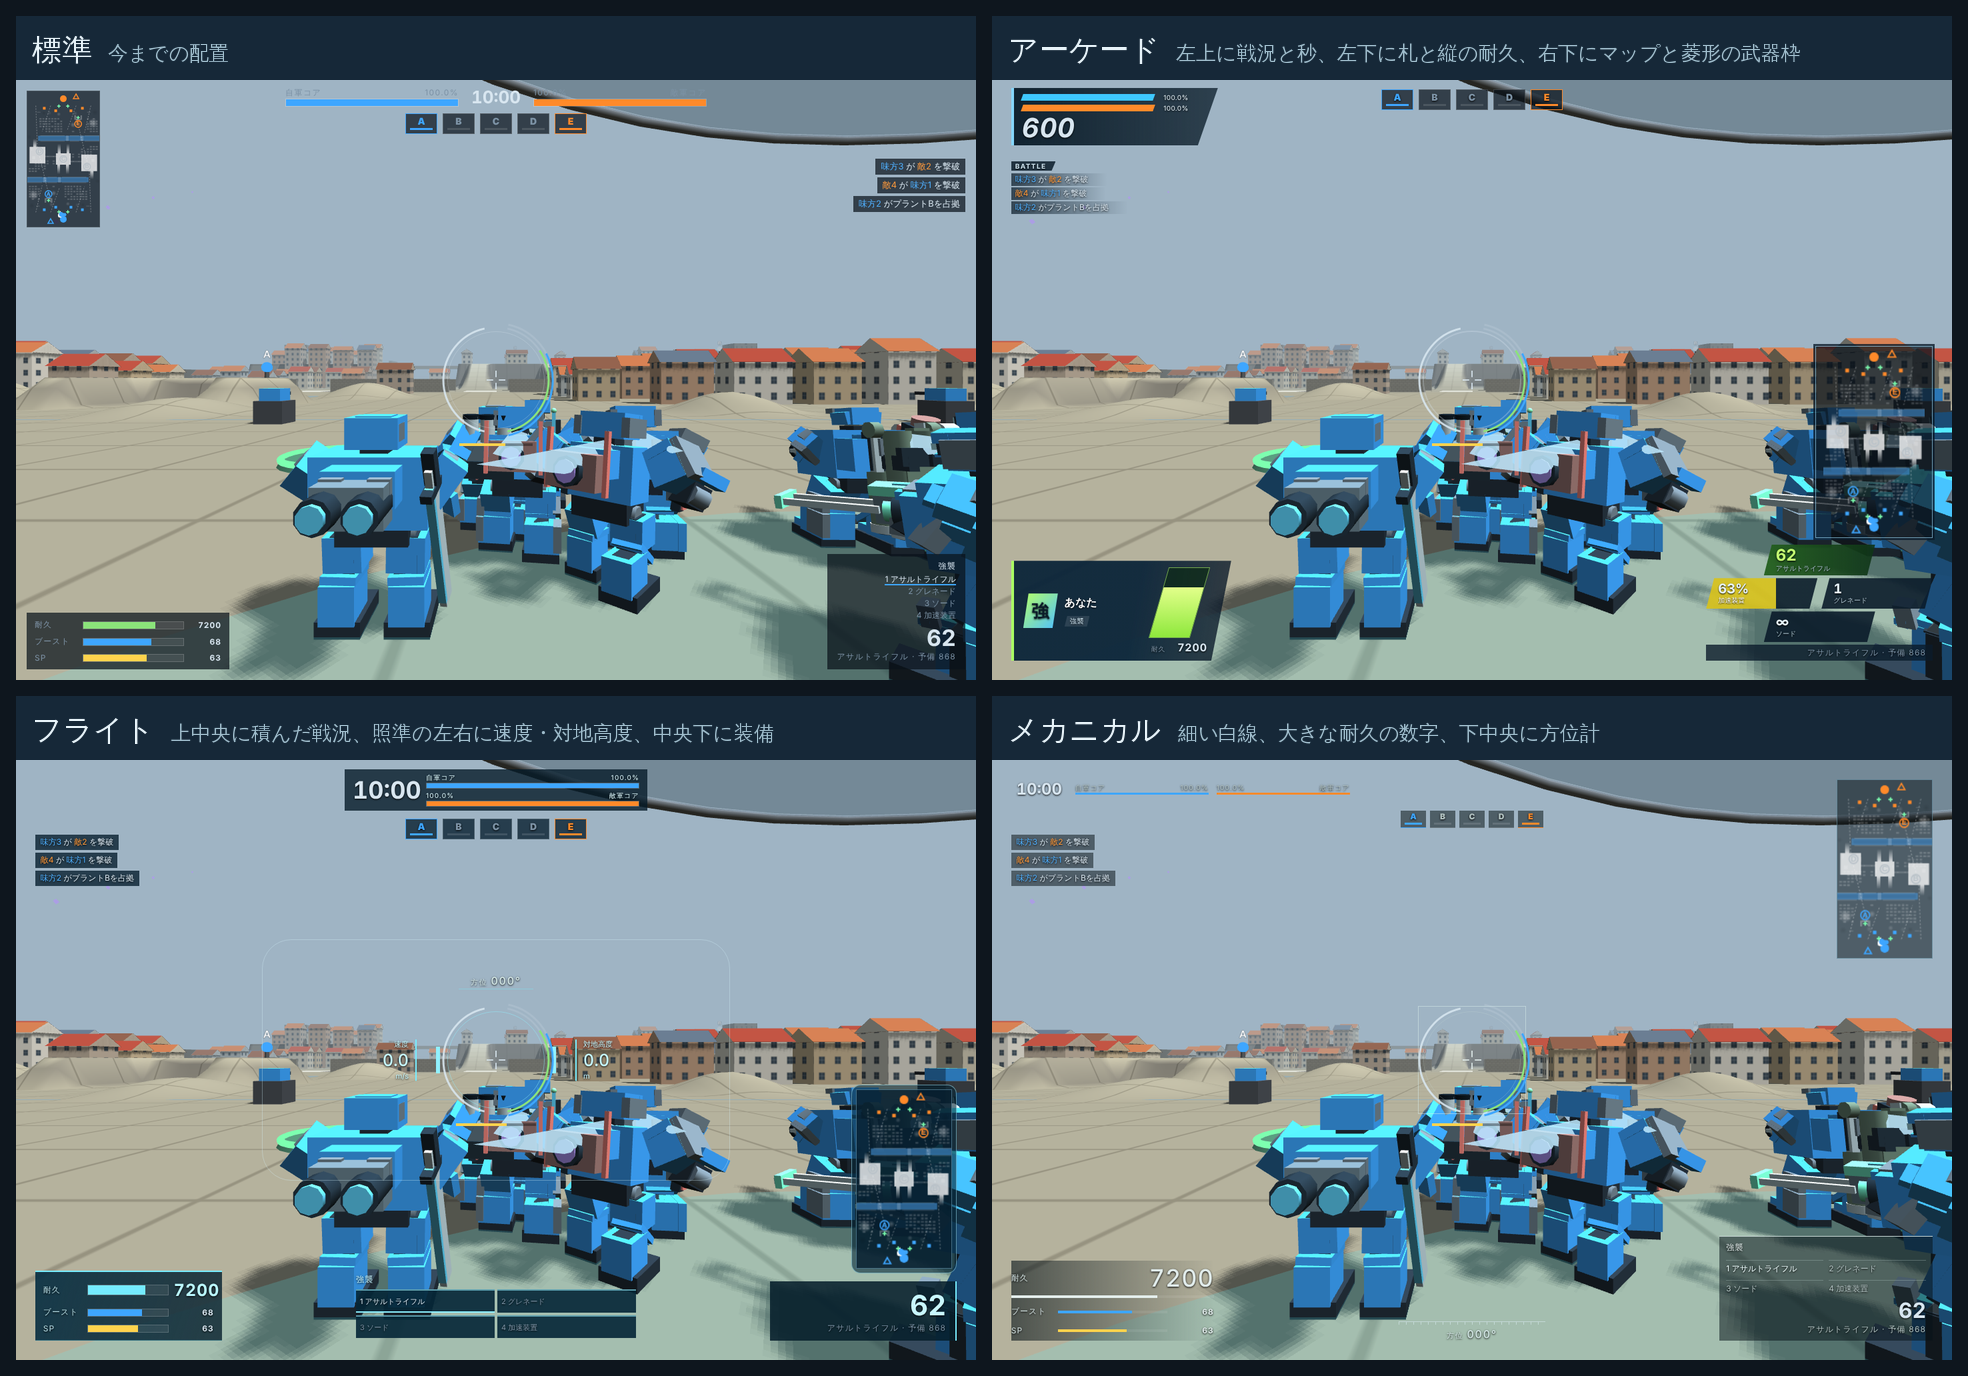
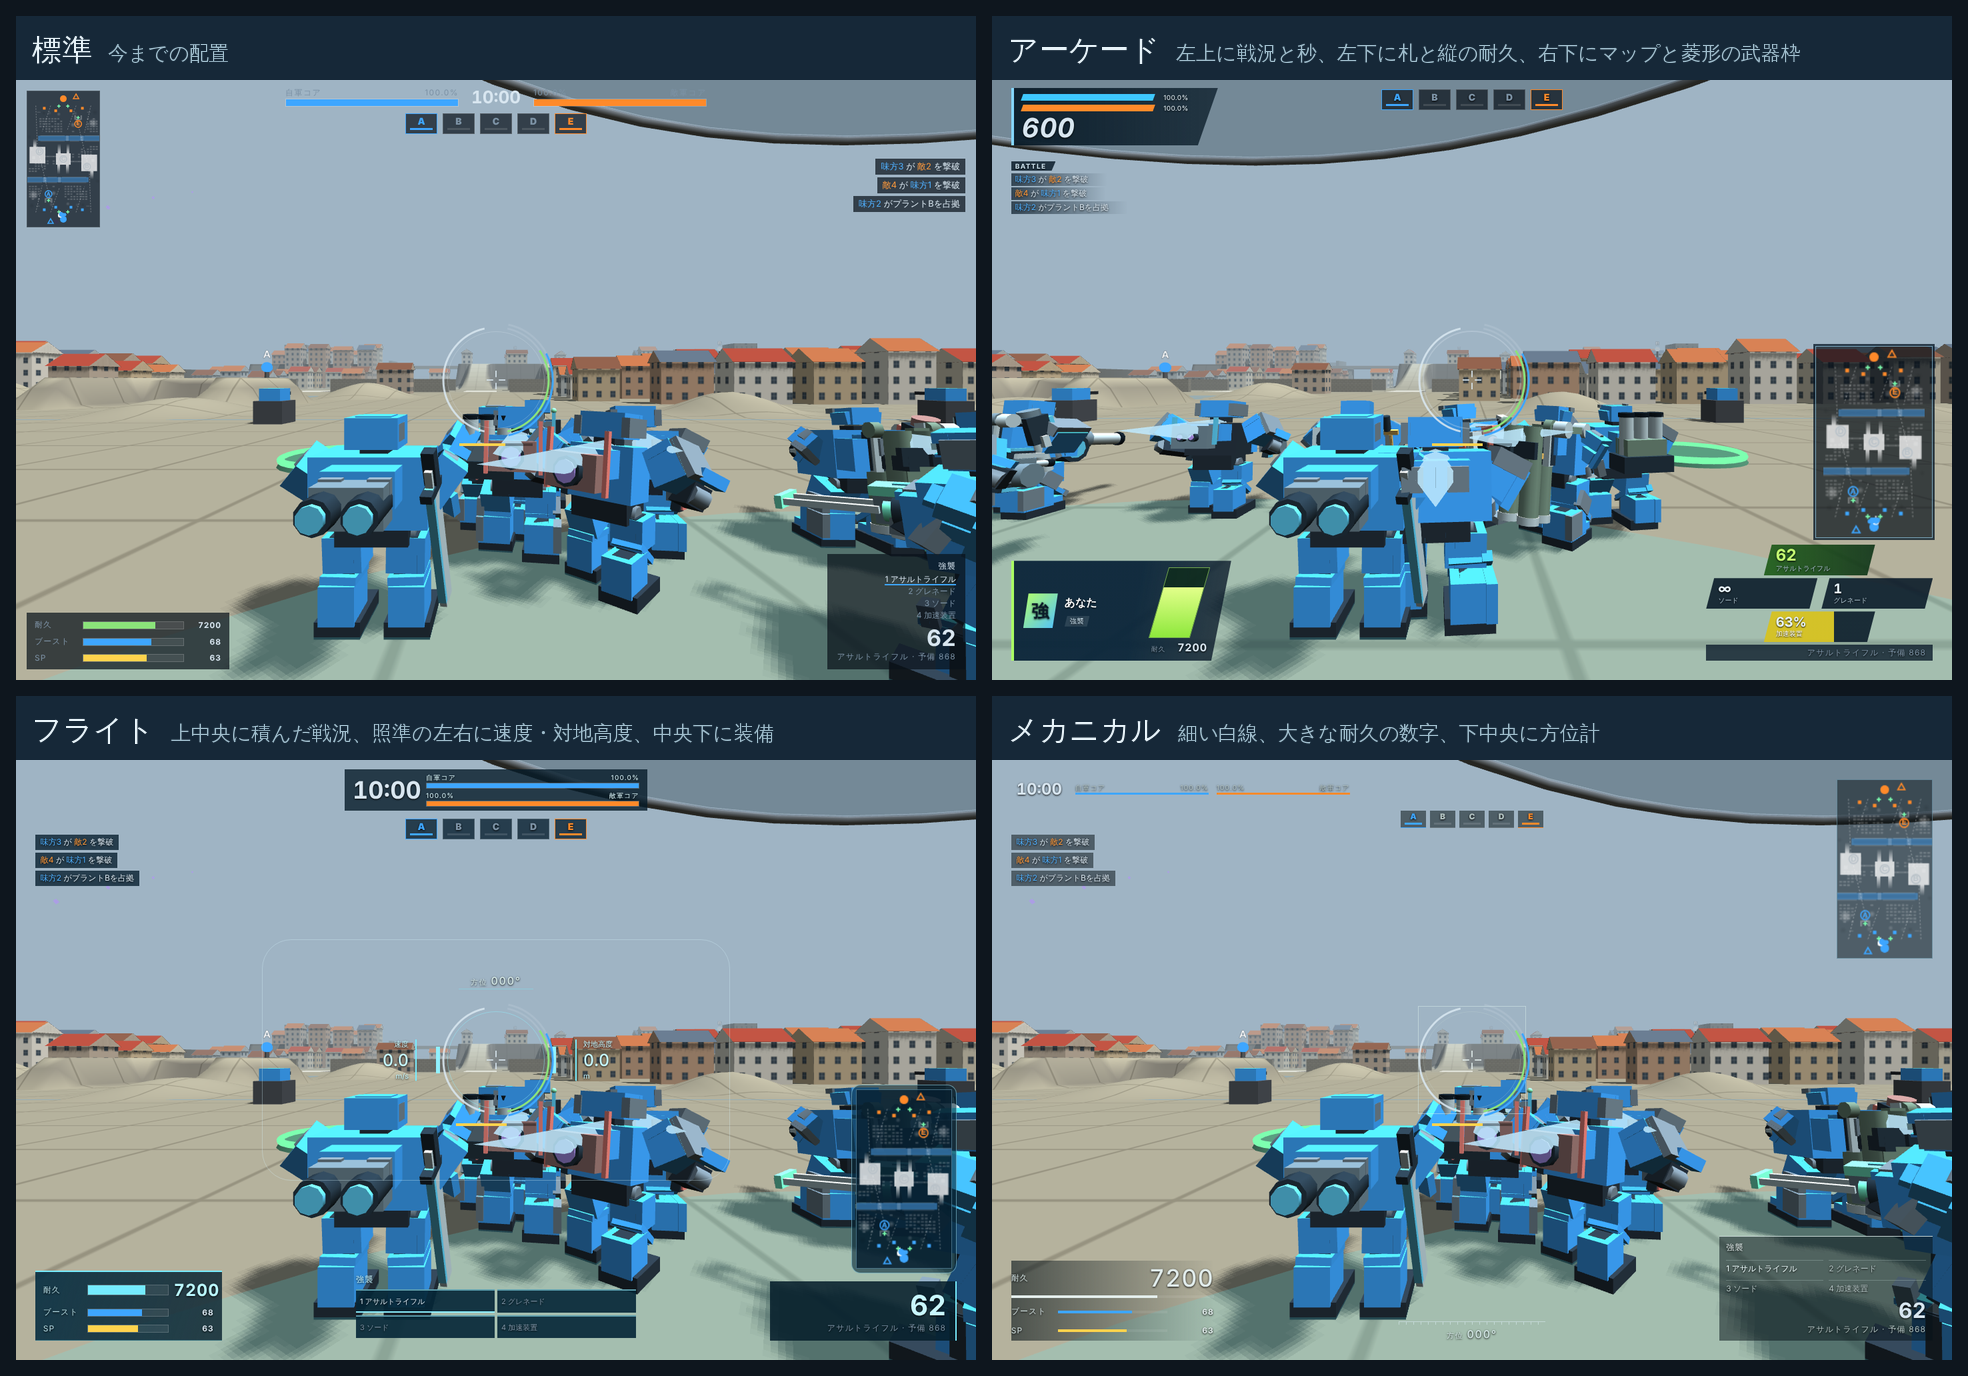
武器の十字とアーケードの武器枠で、補助装備と特別装備の位置を入れ替える
サイドボタンの十字は上が主武器、右が副武器、左が補助装備、下が特別装備に（ユーザー指定 2026-10-20）。アーケードの菱形の武器枠も同じ並びにした。1〜4キーとホイールの順は変えない。

Claude-Session: https://claude.ai/code/session_01UWLn81NSJsUX7KNqWaJsKJ

Changed region(s): [[0.4959, 0.2188, 0.9919, 0.5], [0.4959, 0.0312, 0.9919, 0.125], [0.6819, 0.4688, 0.7129, 0.5]]

diff --git a/prototype/index.html b/prototype/index.html
@@ -472,7 +472,7 @@ body[data-console="arcade"] #status.low #hp > i { background: linear-gradient(#f
 body[data-console="arcade"] #hpT { grid-area: num; font-size: 16px; }
 body[data-console="arcade"] #ammoBox { width: 340px; padding: 0; background: none; text-align: left; }
 body[data-console="arcade"] #wcls, body[data-console="arcade"] #ammo { display: none; }
-body[data-console="arcade"] #wpn { justify-items: stretch; grid-template-columns: repeat(4, minmax(0, 1fr)); grid-template-areas: ". main main ." "sp sp sub sub" ". aux aux ."; gap: 4px 6px; margin: 0; }
+body[data-console="arcade"] #wpn { justify-items: stretch; grid-template-columns: repeat(4, minmax(0, 1fr)); grid-template-areas: ". main main ." "aux aux sub sub" ". sp sp ."; gap: 4px 6px; margin: 0; }
 body[data-console="arcade"] #w-main { grid-area: main; }
 body[data-console="arcade"] #w-sub { grid-area: sub; }
 body[data-console="arcade"] #w-aux { grid-area: aux; }
@@ -623,7 +623,7 @@ body[data-console="mechanical"] #consoleHeading { bottom: max(var(--console-edge
 <div class="hud" id="scorePop"></div>
 <div class="hud" id="scope" hidden></div>
 <div class="hud" id="qchat" hidden></div>
-<div class="hud" id="wsel" hidden><div class="opt" id="ws-main"></div><div class="mid"><div class="opt" id="ws-sp"></div><div class="opt" id="ws-sub"></div></div><div class="opt" id="ws-aux"></div><div class="hint">マウスを上下左右に動かして選び、ボタンを離して決定</div></div>
+<div class="hud" id="wsel" hidden><div class="opt" id="ws-main"></div><div class="mid"><div class="opt" id="ws-aux"></div><div class="opt" id="ws-sub"></div></div><div class="opt" id="ws-sp"></div><div class="hint">マウスを上下左右に動かして選び、ボタンを離して決定</div></div>
 <div class="hud" id="center"></div>
 <div class="hud" id="announce" role="status" aria-live="polite"></div>
 <div class="hud" id="lockAlert" role="status" hidden><b>被ロックオン</b><small id="lockAlertInfo"></small></div>
@@ -675,7 +675,7 @@ body[data-console="mechanical"] #consoleHeading { bottom: max(var(--console-edge
         <kbd>Shift 長押し</kbd><span>ロングダッシュ（押している間ブーストを毎秒約11消費して高速移動。使い切るとオーバーヒート）</span>
         <kbd>Space</kbd><span>ジャンプ（ブースト8.8消費、約4m）。空中で押し続けるとブーストを使って滞空（毎秒9.6）。敵の回転斬りはジャンプで避けられます</span>
         <kbd>マウス</kbd><span>視点（矢印キーでも可）</span>
-        <kbd>サイドボタン</kbd><span>マウスの戻る・進むボタンを押している間、画面中央に武器選択が出ます。マウスを上（主武器）・右（副武器）・下（補助装備）・左（特別装備）に動かし、離して持ち替え。ホイールと1〜4キーでも持ち替えられます</span>
+        <kbd>サイドボタン</kbd><span>マウスの戻る・進むボタンを押している間、画面中央に武器選択が出ます。マウスを上（主武器）・右（副武器）・左（補助装備）・下（特別装備）に動かし、離して持ち替え。ホイールと1〜4キーでも持ち替えられます</span>
         <kbd>左クリック</kbd><span>選んでいる武器を使う（押しっぱなしで連射）</span>
         <kbd>右クリック</kbd><span>狙撃銃は押している間スコープ（覗かずに撃つと弾が大きくばらつき、動きながらだとさらに散る。覗いて止まっていると2.5秒で照準が収束し、撃つと乱れる）、リペアユニットは押している間自分を回復、重砲は構えをやめる、遠隔爆弾は置いた物を全部起爆</span>
         <kbd>ソード</kbd><span>止まっているか歩いているときは前方150度の横なぎ。ダッシュ中に振ると、前へ16m踏み込みながら2回転する回転斬り（一撃で撃破できるが、終わると1秒動けない。踏み込みはブーストを使わず、その間ブーストが回復する）。ロック中の敵には、横なぎでも4mまで踏み込み、踏み込んでいる間もその敵を追います（横へ逃げても曲がってくる。回転斬りは刃が低いのでジャンプで避けられる）。踏み込みは勢いよく出て、振り終わった後も少し滑ります。刃が通った所に当たり、コアには当たりません</span>
@@ -6687,7 +6687,7 @@ canvas.addEventListener('mousedown', e => {
   if (running && document.pointerLockElement !== canvas) grabPointer();
 });
 addEventListener('mouseup', e => { if (e.button === 0) mouseDown = false; if (e.button === 2) rightDown = false; });
-// 武器選択：サイドボタン（3：戻る、4：進む）を押している間だけ開き、マウスを上（主武器）・右（副武器）・下（補助装備）・左（特別装備）に動かして離すと持ち替える
+// 武器選択：サイドボタン（3：戻る、4：進む）を押している間だけ開き、マウスを上（主武器）・右（副武器）・左（補助装備）・下（特別装備）に動かして離すと持ち替える
 const wsel = { open: false, x: 0, y: 0, pick: 'main' };
 const SIDE = e => e.button === 3 || e.button === 4;
 addEventListener('mousedown', e => {
@@ -6727,7 +6727,7 @@ addEventListener('mousemove', e => {
     // 武器選択中はマウスで視点を動かさない
     wsel.x = Math.max(-60, Math.min(60, wsel.x + e.movementX));
     wsel.y = Math.max(-60, Math.min(60, wsel.y + e.movementY));
-    if (Math.max(Math.abs(wsel.x), Math.abs(wsel.y)) > 20) wsel.pick = Math.abs(wsel.y) >= Math.abs(wsel.x) ? (wsel.y < 0 ? 'main' : 'aux') : (wsel.x > 0 ? 'sub' : 'sp');
+    if (Math.max(Math.abs(wsel.x), Math.abs(wsel.y)) > 20) wsel.pick = Math.abs(wsel.y) >= Math.abs(wsel.x) ? (wsel.y < 0 ? 'main' : 'sp') : (wsel.x > 0 ? 'sub' : 'aux');
     return;
   }
   const sens = 0.0025 * camera.fov / 70 * (player.slots[player.weapon].w.turn || 1); // スコープ中は視点の動きも細かく。重砲は旋回が遅い
@@ -7953,7 +7953,7 @@ function hud(timeLeft, dt) {
     SLOTS.forEach((k, i) => {
       const sl = p.slots[k], el = $('ws-' + k);
       el.classList.toggle('sel', wsel.pick === k);
-      el.innerHTML = `${'▲▶▼◀'[i]} ${SLOT_NAMES[k]}　${sl.w.name}<small>${sl.w.mag ? `${sl.ammo} / 予備 ${sl.reserve}` : sl.w.type === 'sword' ? '弾数制限なし' : `SP ${Math.round(sl.heat)}%`}${p.weapon === k ? '　使用中' : ''}</small>`;
+      el.innerHTML = `${'▲▶◀▼'[i]} ${SLOT_NAMES[k]}　${sl.w.name}<small>${sl.w.mag ? `${sl.ammo} / 予備 ${sl.reserve}` : sl.w.type === 'sword' ? '弾数制限なし' : `SP ${Math.round(sl.heat)}%`}${p.weapon === k ? '　使用中' : ''}</small>`;
     });
   }
   $('jamView').hidden = !(p.alive && p.jamT>0);
